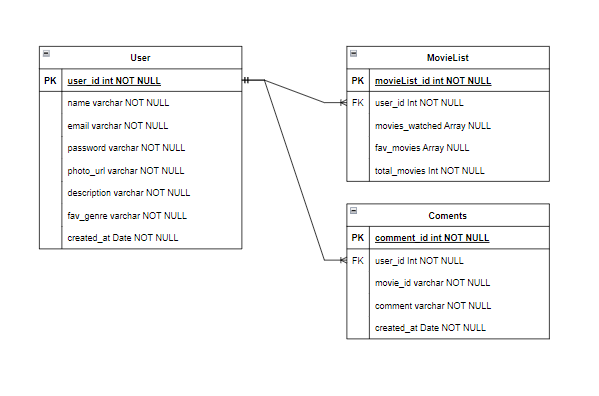
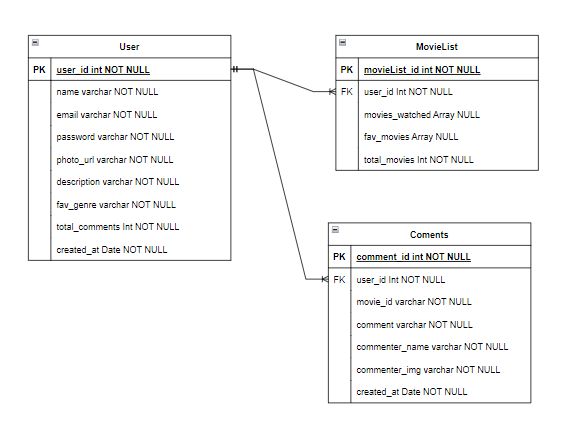
Adding properties to comments model

diff --git a/api/controllers/comment.controller.js b/api/controllers/comment.controller.js
@@ -54,7 +54,13 @@ export const createComment = async (req, res) => {
       { _id: user_id },
       { total_comments: Number(user.total_comments++) }
     );
-    const comment = new Comment({ ...req.body, user_id, movie_id });
+    const comment = new Comment({
+      ...req.body,
+      user_id,
+      movie_id,
+      commenter_name: user.name,
+      commenter_img: user.photo_url,
+    });
     const newComment = await comment.save();
     newComment && res.status(201).json(newComment);
   } catch (error) {

diff --git a/api/models/comments.model.js b/api/models/comments.model.js
@@ -5,6 +5,8 @@ const schemaComments = {
   user_id: String,
   movie_id: Number,
   comment: String,
+  commenter_name: String,
+  commenter_img: String,
   created_at: { type: Date, default: Date.now() },
 };
 
